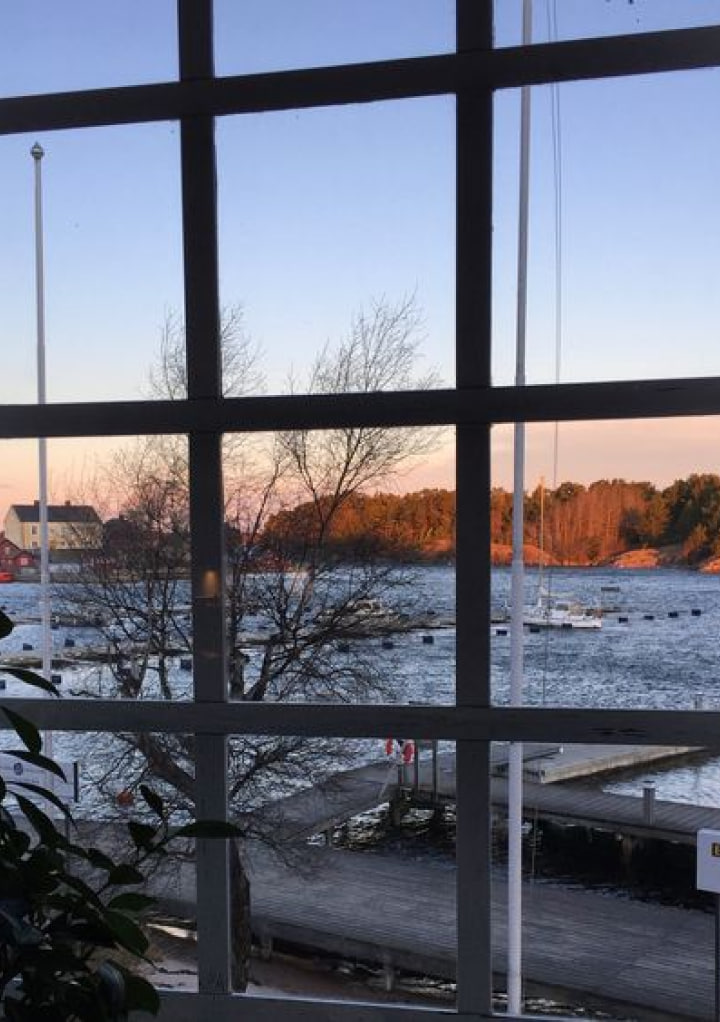
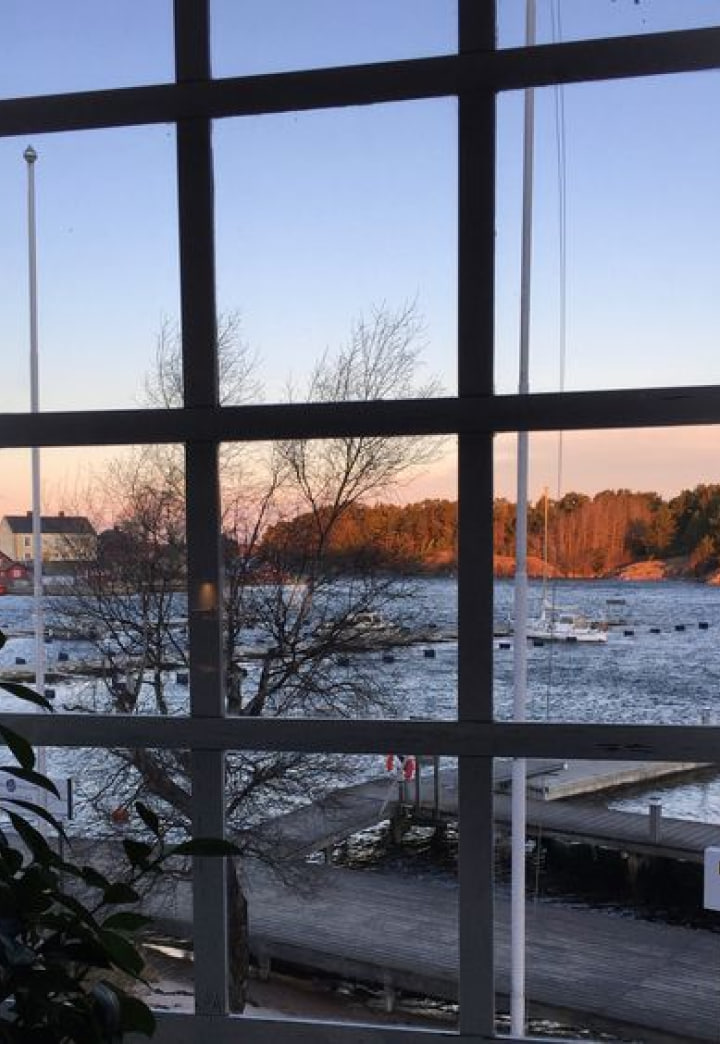
changed sizes

diff --git a/styles/images.css b/styles/images.css
@@ -31,7 +31,7 @@
 
 .images {
     width: 100%;
-    height: 305px;
+    height: 425px;
     float:left;
     object-fit: cover;
     object-position: left;
